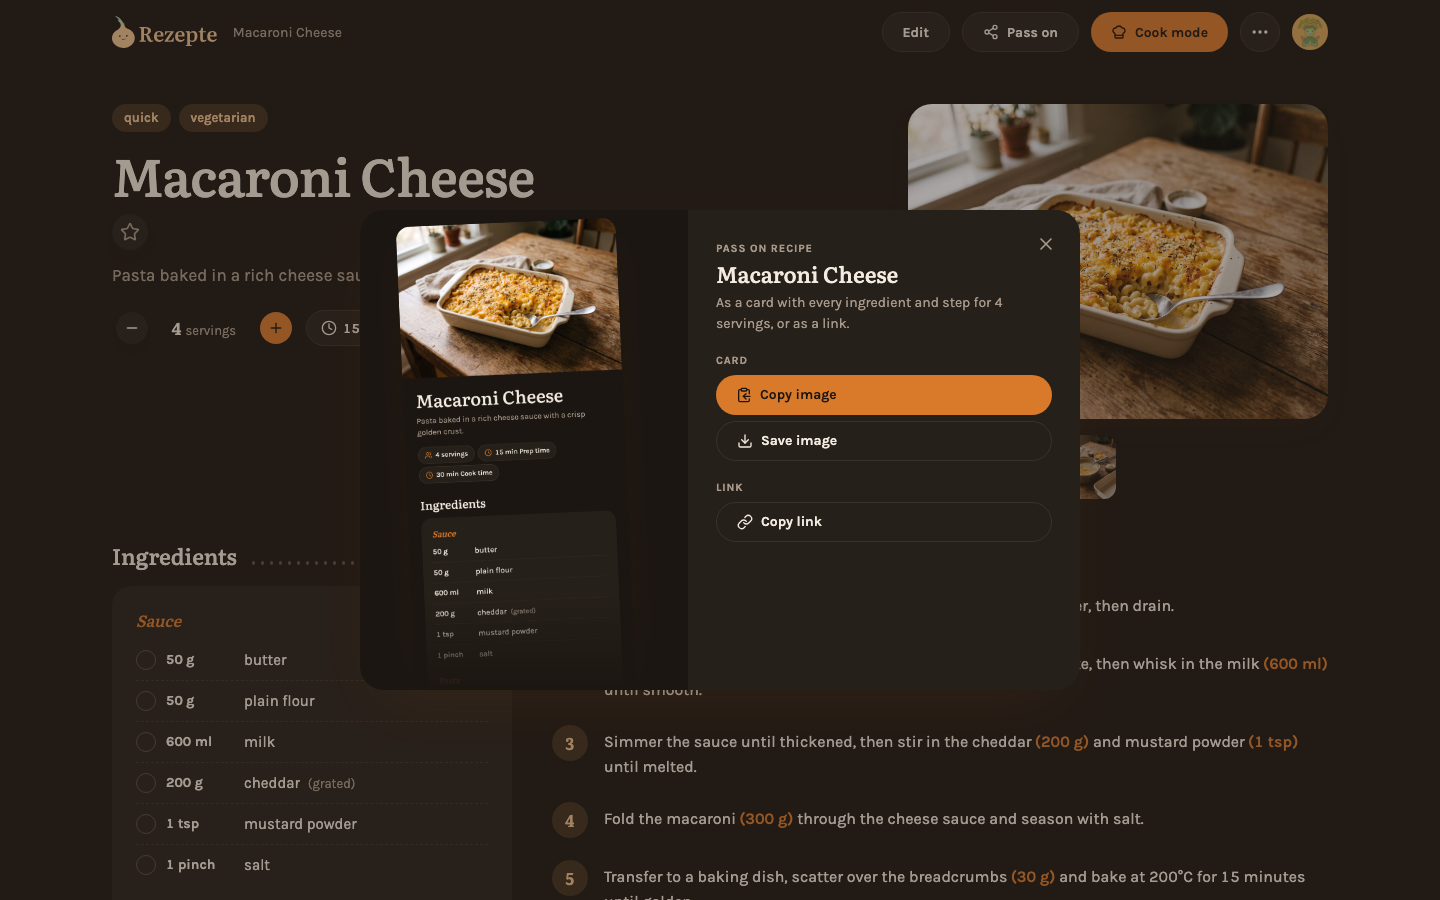
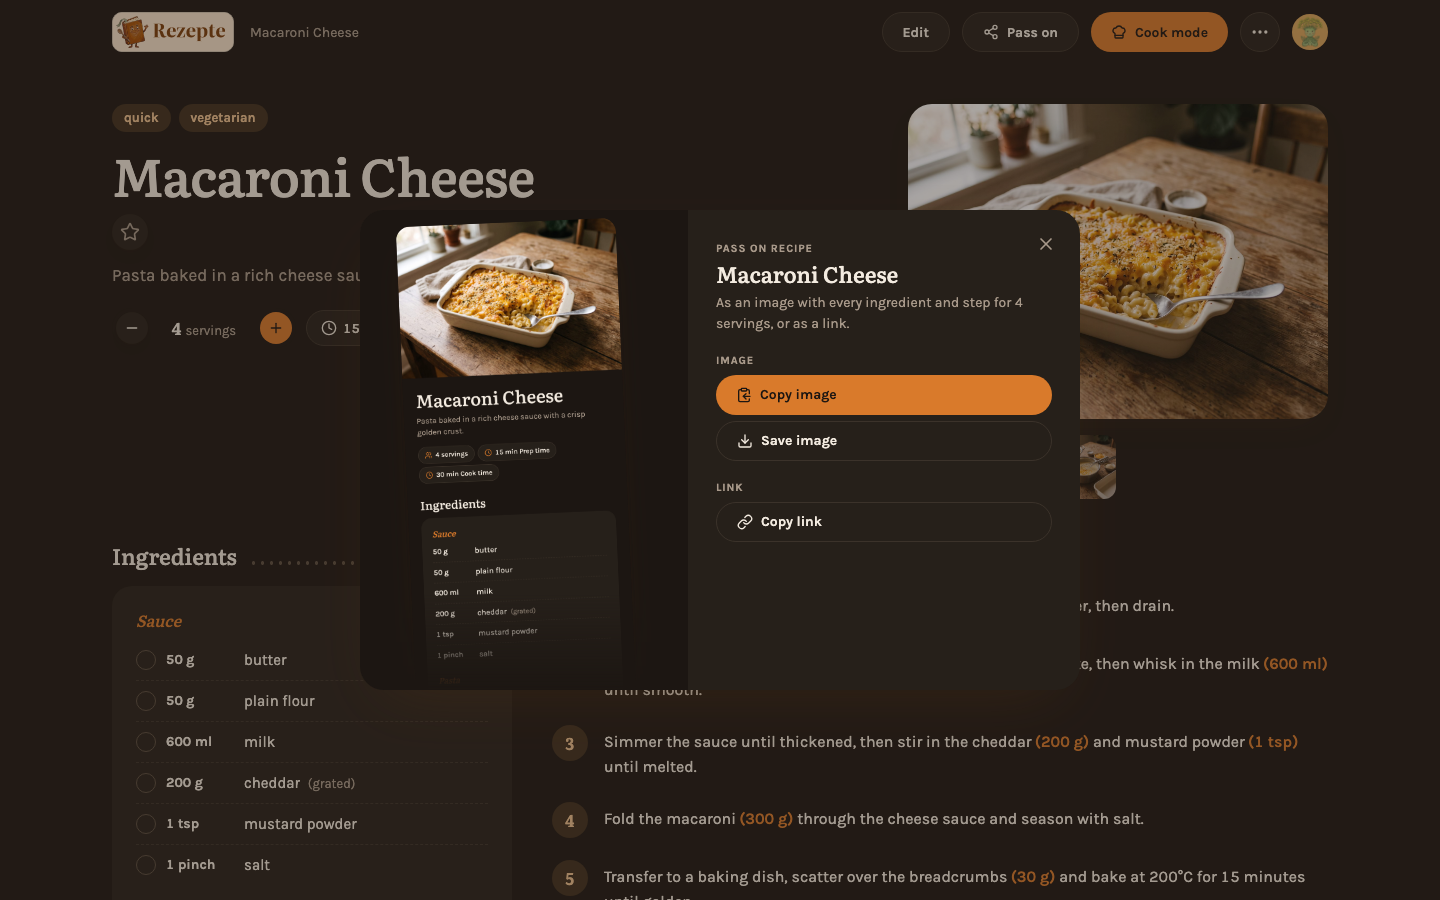
fix(frontend): copy and share without https, call the picture an image

Changed region(s): [[0.0625, 0.0, 0.25, 0.0622], [0.5312, 0.3111, 0.6875, 0.3422], [0.5, 0.3733, 0.5312, 0.4044]]

diff --git a/frontend/e2e/share-image.test.ts b/frontend/e2e/share-image.test.ts
@@ -19,7 +19,7 @@ import {
 
 // The browsers under test may or may not offer a share sheet for files, and
 // a headless one cannot show it. Each test pins the behavior it needs:
-// `noShareSheet` takes file sharing away, so "Card" falls back to a download.
+// `noShareSheet` takes file sharing away, so "Image" falls back to a download.
 async function noShareSheet(page: Page) {
 	await page.addInitScript(() => {
 		Object.defineProperty(Navigator.prototype, 'canShare', { value: undefined });
@@ -37,7 +37,7 @@ async function openPassOn(page: Page, testInfo: TestInfo): Promise<Locator> {
 		await page.getByRole('button', { name: 'Pass on' }).click();
 	}
 	const sheet = page.getByRole('dialog', { name: 'Pass on recipe' });
-	await expect(sheet.getByRole('img', { name: /^Recipe card:/ })).toBeVisible({ timeout: 20_000 });
+	await expect(sheet.getByRole('img', { name: /^Recipe image:/ })).toBeVisible({ timeout: 20_000 });
 	return sheet;
 }
 
@@ -49,7 +49,7 @@ async function pngSize(download: Download): Promise<{ width: number; height: num
 
 async function saveCard(page: Page, sheet: Locator, testInfo: TestInfo): Promise<Download> {
 	const downloading = page.waitForEvent('download');
-	await sheet.getByRole('button', { name: isPhone(testInfo) ? 'Card' : 'Save image' }).click();
+	await sheet.getByRole('button', { name: isPhone(testInfo) ? 'Image' : 'Save image' }).click();
 	return downloading;
 }
 
@@ -89,7 +89,7 @@ test('renders a card without a photo, at the chosen servings', async ({ page }, 
 });
 
 test('cancelling the share sheet keeps it open', async ({ page }, testInfo) => {
-	test.skip(!isPhone(testInfo), 'the phone sheet is where "Card" opens the share sheet');
+	test.skip(!isPhone(testInfo), 'the phone sheet is where "Image" opens the share sheet');
 	await page.addInitScript(() => {
 		Object.defineProperty(Navigator.prototype, 'canShare', { value: () => true });
 		Object.defineProperty(Navigator.prototype, 'share', {
@@ -101,9 +101,10 @@ test('cancelling the share sheet keeps it open', async ({ page }, testInfo) => {
 	await page.goto(`/recipes/${recipe.slug}`);
 
 	const sheet = await openPassOn(page, testInfo);
+	await expect(sheet.getByText('Press and hold the image to share it.')).toHaveCount(0);
 	let downloaded = false;
 	page.on('download', () => (downloaded = true));
-	await sheet.getByRole('button', { name: 'Card' }).click();
+	await sheet.getByRole('button', { name: 'Image' }).click();
 	// Longer than the sheet's 320ms send animation and a download's start.
 	await page.waitForTimeout(800);
 	await expect(sheet).toBeVisible();
@@ -112,7 +113,7 @@ test('cancelling the share sheet keeps it open', async ({ page }, testInfo) => {
 });
 
 test('a second tap while the share sheet is up sends nothing more', async ({ page }, testInfo) => {
-	test.skip(!isPhone(testInfo), 'the phone sheet is where "Card" opens the share sheet');
+	test.skip(!isPhone(testInfo), 'the phone sheet is where "Image" opens the share sheet');
 	// The first share stays open, as the system sheet does; a second call
 	// meanwhile is refused the way browsers refuse it.
 	await page.addInitScript(() => {
@@ -133,7 +134,7 @@ test('a second tap while the share sheet is up sends nothing more', async ({ pag
 	const sheet = await openPassOn(page, testInfo);
 	let downloaded = false;
 	page.on('download', () => (downloaded = true));
-	const card = sheet.getByRole('button', { name: 'Card' });
+	const card = sheet.getByRole('button', { name: 'Image' });
 	await card.click();
 	await card.click({ force: true });
 	await page.waitForTimeout(800);
@@ -161,4 +162,59 @@ test('falls back to the placeholder when the cover does not load', async ({ page
 
 	await openPassOn(page, testInfo);
 	await expect(page.locator('[inert] img[src*="/images/"]')).toHaveCount(0);
+});
+
+// Plain http on a home network is not a secure context: browsers then offer
+// neither the share sheet nor the clipboard API. `insecure` takes both away
+// and records what the fallback copy put on the clipboard.
+async function insecure(page: Page, { copyWorks = true } = {}) {
+	await page.addInitScript((works) => {
+		Object.defineProperty(Navigator.prototype, 'canShare', { value: undefined });
+		Object.defineProperty(Navigator.prototype, 'share', { value: undefined });
+		Object.defineProperty(Navigator.prototype, 'clipboard', { get: () => undefined });
+		Document.prototype.execCommand = function (command: string) {
+			if (command !== 'copy' || !works) return false;
+			const field = document.activeElement as HTMLTextAreaElement | null;
+			(window as unknown as { copied?: string }).copied = field?.value;
+			return true;
+		};
+	}, copyWorks);
+}
+
+test('without https, Link still copies the link', async ({ page }, testInfo) => {
+	test.skip(!isPhone(testInfo), 'the phone sheet has Link');
+	await insecure(page);
+	await login(page);
+	const recipe = await createRecipe(page, { ...loadFixture(0), title: `Http ${uniqueToken()}` });
+	await page.goto(`/recipes/${recipe.slug}`);
+
+	const sheet = await openPassOn(page, testInfo);
+	await sheet.getByRole('button', { name: 'Link' }).click();
+	await expect(page.getByText('Link copied')).toBeVisible();
+	const copied = await page.evaluate(() => (window as unknown as { copied?: string }).copied);
+	expect(copied).toContain(`/recipes/${recipe.slug}`);
+});
+
+test('without https, the sheet says how to share the image', async ({ page }, testInfo) => {
+	test.skip(!isPhone(testInfo), 'the hint is for phones');
+	await insecure(page);
+	await login(page);
+	const recipe = await createRecipe(page, { ...loadFixture(0), title: `Hint ${uniqueToken()}` });
+	await page.goto(`/recipes/${recipe.slug}`);
+
+	const sheet = await openPassOn(page, testInfo);
+	await expect(sheet.getByText('Press and hold the image to share it.')).toBeVisible();
+});
+
+test('when nothing can copy, the text is shown instead', async ({ page }, testInfo) => {
+	test.skip(!isPhone(testInfo), 'the phone sheet has Link');
+	await insecure(page, { copyWorks: false });
+	await login(page);
+	const recipe = await createRecipe(page, { ...loadFixture(0), title: `Show ${uniqueToken()}` });
+	await page.goto(`/recipes/${recipe.slug}`);
+
+	const sheet = await openPassOn(page, testInfo);
+	await sheet.getByRole('button', { name: 'Link' }).click();
+	await expect(page.getByText('Copying is not available here')).toBeVisible();
+	await expect(page.getByText(new RegExp(`/recipes/${recipe.slug}`))).toBeVisible();
 });

diff --git a/frontend/src/lib/recipe/share.svelte.ts b/frontend/src/lib/recipe/share.svelte.ts
@@ -62,10 +62,51 @@ export class ShareLink {
 	}
 }
 
-/** Puts `text` on the clipboard and confirms it with `message`. */
+/**
+ * Copies through a selected, hidden field - the one way left where the
+ * clipboard API is missing: plain http on a home network is not a secure
+ * context, and browsers leave `navigator.clipboard` out there. The field
+ * goes into an open dialog when there is one, whose focus trap would
+ * otherwise pull the selection away.
+ */
+function copyThroughField(text: string): boolean {
+	const field = document.createElement('textarea');
+	field.value = text;
+	field.readOnly = true;
+	field.style.position = 'fixed';
+	field.style.opacity = '0';
+	(document.activeElement?.closest('[role="dialog"]') ?? document.body).append(field);
+	field.focus();
+	field.setSelectionRange(0, text.length);
+	try {
+		return document.execCommand('copy');
+	} catch {
+		return false;
+	} finally {
+		field.remove();
+	}
+}
+
+/**
+ * Puts `text` on the clipboard and confirms it with `message`. Where no way
+ * of copying works, the toast shows the text itself, so it can still be
+ * selected by hand rather than lost without a word.
+ */
 export async function copyText(text: string, message: string): Promise<void> {
-	await navigator.clipboard.writeText(text);
-	toast.success(message);
+	try {
+		if (navigator.clipboard) {
+			await navigator.clipboard.writeText(text);
+			toast.success(message);
+			return;
+		}
+	} catch {
+		// Refused (permission, unfocused page): try the field below.
+	}
+	if (copyThroughField(text)) {
+		toast.success(message);
+		return;
+	}
+	toast(m.copy_unavailable(), { description: text });
 }
 
 export function copyLink(url: string): Promise<void> {

diff --git a/frontend/src/lib/components/recipe/ShareSheet.svelte b/frontend/src/lib/components/recipe/ShareSheet.svelte
@@ -142,6 +142,11 @@
 	<BottomSheet bind:open closeLabel={m.share_sheet_close()}>
 		<Dialog.Title class="px-5 text-center {label}">{m.share_sheet_title()}</Dialog.Title>
 		{@render card('h-[340px]')}
+		{#if !canShareFiles()}
+			<!-- No share sheet for files (plain http is not a secure context):
+			     the phone's own long-press menu on the preview still shares it. -->
+			<p class="px-5 pb-3 text-center text-caption text-text-muted">{m.share_hold_hint()}</p>
+		{/if}
 		<div class="relative border-t-2 border-dashed border-handle" aria-hidden="true">
 			<Scissors
 				class="absolute -top-2.5 left-5 size-5 -rotate-90 bg-background px-0.5 text-text-muted"

diff --git a/frontend/e2e/public-shares.test.ts b/frontend/e2e/public-shares.test.ts
@@ -219,7 +219,7 @@ test('the credit on a recipe card follows the owner setting', async ({ page }, t
 	const openCard = async () => {
 		await page.getByRole('button', { name: 'Pass on' }).click();
 		const sheet = page.getByRole('dialog', { name: 'Pass on recipe' });
-		await expect(sheet.getByRole('img', { name: /^Recipe card:/ })).toBeVisible({
+		await expect(sheet.getByRole('img', { name: /^Recipe image:/ })).toBeVisible({
 			timeout: 20_000
 		});
 	};

diff --git a/docs/user/screenshots/sharing.spec.ts b/docs/user/screenshots/sharing.spec.ts
@@ -91,6 +91,6 @@ test('recipe-card', async ({ page }, testInfo) => {
 		await page.getByRole('button', { name: 'Pass on' }).click();
 	}
 	const sheet = page.getByRole('dialog', { name: 'Pass on recipe' });
-	await expect(sheet.getByRole('img', { name: /^Recipe card:/ })).toBeVisible({ timeout: 20_000 });
+	await expect(sheet.getByRole('img', { name: /^Recipe image:/ })).toBeVisible({ timeout: 20_000 });
 	await shot(page, 'recipe-card');
 });
